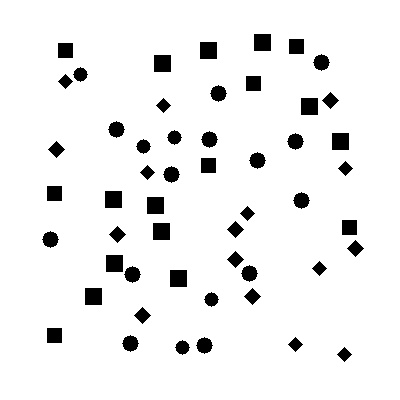
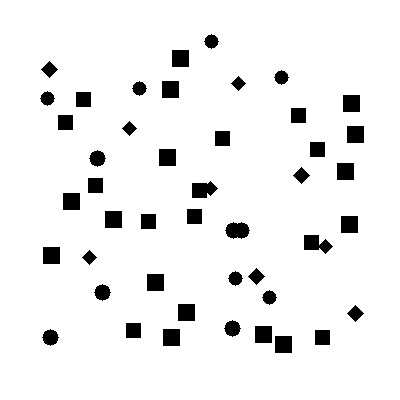
重构出入口条件。现在，做到出口处密度统一为1作为压力参照。

diff --git a/py/simulation.py b/py/simulation.py
@@ -242,67 +242,65 @@ def evolution(NX, NY,
                     
                     
     #step2各个量第一轮迁移。同时完成迁移情况分类
+    wall_U=np.array([0.0,0.0])
     for i in range(NX):
         for j in range(NY):
             col_stat[i][j]=col_status.Finished.value#默认改为0
-            if(block[i][j] == 1):#如果是墙壁格子，不进行操作
-                for m in range(Q):
-                    ip = i - e[m][0]#计算i方向预期坐标
-                    jp = j - e[m][1]#计算j方向预期坐标
-                    if(ip<0 or ip>=NX):
-                        col_stat[i][j]=col_status.Open_Boundary.value
-                        f[i][j][m]=f_col[i][j][m]
 
-                        g_neq=g_col[i+e[m][0]][j+e[m][1]][m]-g_eq(m,T[i+e[m][0]][j+e[m][1]],U[i+e[m][0]][j+e[m][1]])#同样存在不连续风险。
-                        g[i][j][m]=g_eq(m,T0,U0)+g_neq#这里外面的速度U修正，用里面的估计，稍微提高一点连续性
-                        continue
-                    elif(jp < 0 or jp >= NY):
+            # 平面开放边界：同一法向内部节点提供全部非平衡分布
+            if((i == 0 or i == NX-1) and j > 0 and j < NY-1):
+                col_stat[i][j]=col_status.Open_Boundary.value
+                ref_i = 1 if i == 0 else NX-2
+                ref_Rho = Rho[ref_i][j]
+                ref_U = U[ref_i][j]
+                ref_T = T[ref_i][j]
+
+                if(block[i][j] == 1):#固体密度不动，只重构温度分布
+                    target_T = T0 if i == 0 else ref_T
+                    for m in range(Q):
+                        f[i][j][m]=f_col[i][j][m]
+                        g_neq=g_col[ref_i][j][m]-g_eq(m,ref_T,ref_U)
+                        g[i][j][m]=g_eq(m,target_T,wall_U)+g_neq
+                else:#流体入口给定速度，出口给定密度
+                    target_Rho = ref_Rho if i == 0 else Rho0
+                    target_U = U0 if i == 0 else ref_U
+                    target_T = T0 if i == 0 else ref_T
+                    for m in range(Q):
+                        f_neq=f_col[ref_i][j][m]-f_eq(m,ref_Rho,ref_U)
+                        f[i][j][m]=f_eq(m,target_Rho,target_U)+f_neq
+                        g_neq=g_col[ref_i][j][m]-g_eq(m,ref_T,ref_U)
+                        g[i][j][m]=g_eq(m,target_T,target_U)+g_neq
+                continue
+
+            for m in range(Q):
+                # pull-streaming 来源坐标
+                src_i = i - e[m][0]
+                src_j = j - e[m][1]
+
+                if(block[i][j] == 1):#固体格子
+                    if(src_i < 0 or src_i >= NX or src_j < 0 or src_j >= NY):
                         col_stat[i][j]=col_status.Bouncy_Boundary.value
                         f[i][j][m]=f_col[i][j][m]
                         g[i][j][m]=g_col[i][j][re[m]]
-                        continue
-                    elif(block[ip][jp] == 0):#如果是来自流体的
+                    elif(block[src_i][src_j] == 0):#如果是来自流体的
                         col_stat[i][j]=col_status.Block_Solid.value
-                        f[i][j][m] = f_col[i][j][m]
-                        g[i][j][m] = g_col[ip][jp][m]
-                        continue
+                        f[i][j][m]=f_col[i][j][m]
+                        g[i][j][m]=g_col[src_i][src_j][m]
                     else:
-                        f[i][j][m] = f_col[i][j][m]#固体密度不动（默认没速度）
-                        g[i][j][m] = g_col[ip][jp][m]
-            else:
-                for m in range(Q):
-                    ip = i - e[m][0]#计算i方向预期坐标
-                    jp = j - e[m][1]#计算j方向预期坐标
-                    if(ip<0):
-                        col_stat[i][j]=col_status.Open_Boundary.value
-                        f_neq=f_col[i+e[m][0]][j+e[m][1]][m]-f_eq(m,Rho[i+e[m][0]][j+e[m][1]],U[i+e[m][0]][j+e[m][1]])#密度会不匹配吗？
-                        f[i][j][m]=f_eq(m,Rho0,U0)+f_neq
-
-                        g_neq=g_col[i+e[m][0]][j+e[m][1]][m]-g_eq(m,T[i+e[m][0]][j+e[m][1]],U[i+e[m][0]][j+e[m][1]])#同样存在不连续风险。
-                        g[i][j][m]=g_eq(m,T0,U0)+g_neq
-                        continue#写switchcase习惯了
-                    if(ip>=NX):
-                        col_stat[i][j]=col_status.Open_Boundary.value
-                        f_neq=f_col[i+e[m][0]][j+e[m][1]][m]-f_eq(m,Rho[i+e[m][0]][j+e[m][1]],U[i+e[m][0]][j+e[m][1]])#密度会不匹配吗？
-                        f[i][j][m]=f_eq(m,Rho[i][j],U[i][j])+f_neq
-
-                        g_neq=g_col[i+e[m][0]][j+e[m][1]][m]-g_eq(m,T[i+e[m][0]][j+e[m][1]],U[i+e[m][0]][j+e[m][1]])#同样存在不连续风险。
-                        g[i][j][m]=g_eq(m,T[i][j],U[i][j])+g_neq
-                        continue#写switchcase习惯了                        
-                    elif(jp < 0 or jp >= NY ):
+                        f[i][j][m]=f_col[i][j][m]#固体密度不动（默认没速度）
+                        g[i][j][m]=g_col[src_i][src_j][m]
+                else:#流体格子
+                    if(src_i < 0 or src_i >= NX or src_j < 0 or src_j >= NY):
                         col_stat[i][j]=col_status.Bouncy_Boundary.value
                         f[i][j][m]=f_col[i][j][re[m]]
                         g[i][j][m]=g_col[i][j][re[m]]
-                        continue
-                    elif(block[ip][jp] == 1):#如果碰到边界或者墙壁
+                    elif(block[src_i][src_j] == 1):#如果碰到边界或者墙壁
                         col_stat[i][j]=col_status.Block_Liquid.value
-                        f[i][j][m] = f_col[i][j][re[m]]
-                        g[i][j][m] = g_col[ip][jp][m]
-                        continue
+                        f[i][j][m]=f_col[i][j][re[m]]
+                        g[i][j][m]=g_col[src_i][src_j][m]
                     else:
-                        f[i][j][m] = f_col[ip][jp][m]#不碰撞就迁移
-                        g[i][j][m] = g_col[ip][jp][m]
-                        continue
+                        f[i][j][m]=f_col[src_i][src_j][m]#不碰撞就迁移
+                        g[i][j][m]=g_col[src_i][src_j][m]
         
     #用迁移后的密度分布函数求宏观量
     for i in range(NX):
